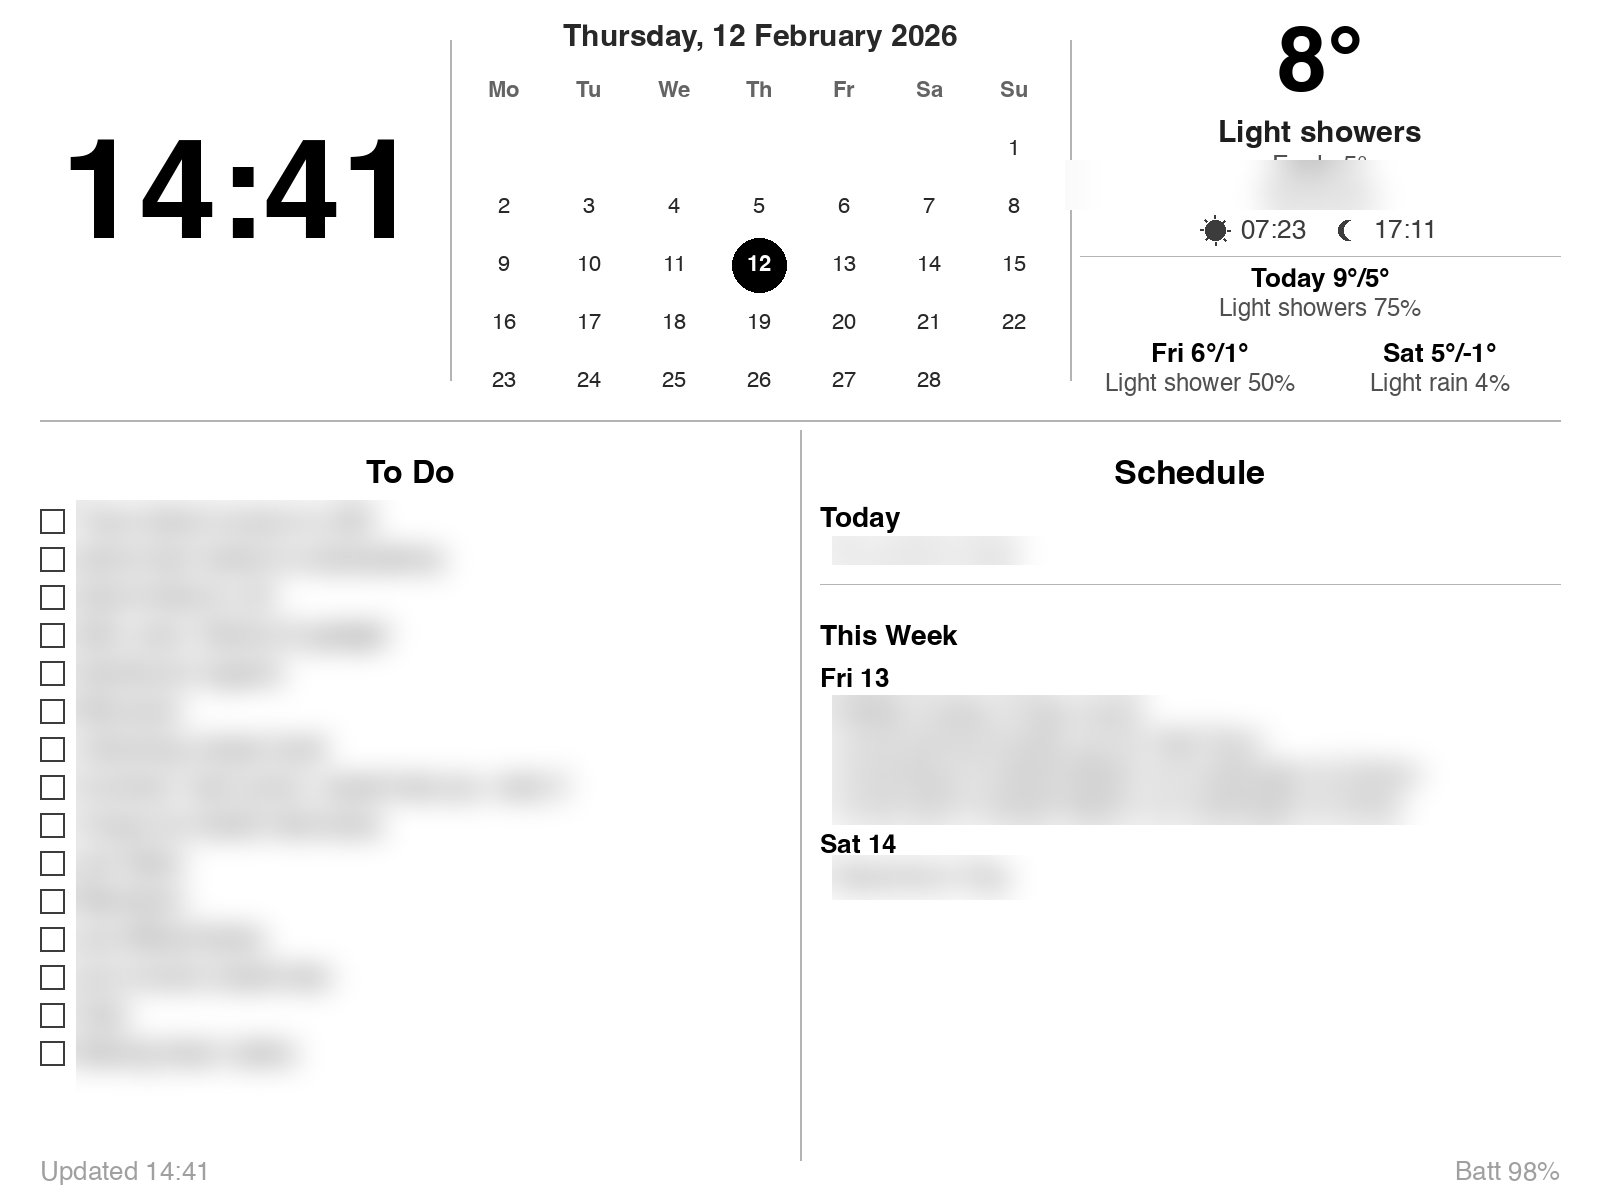
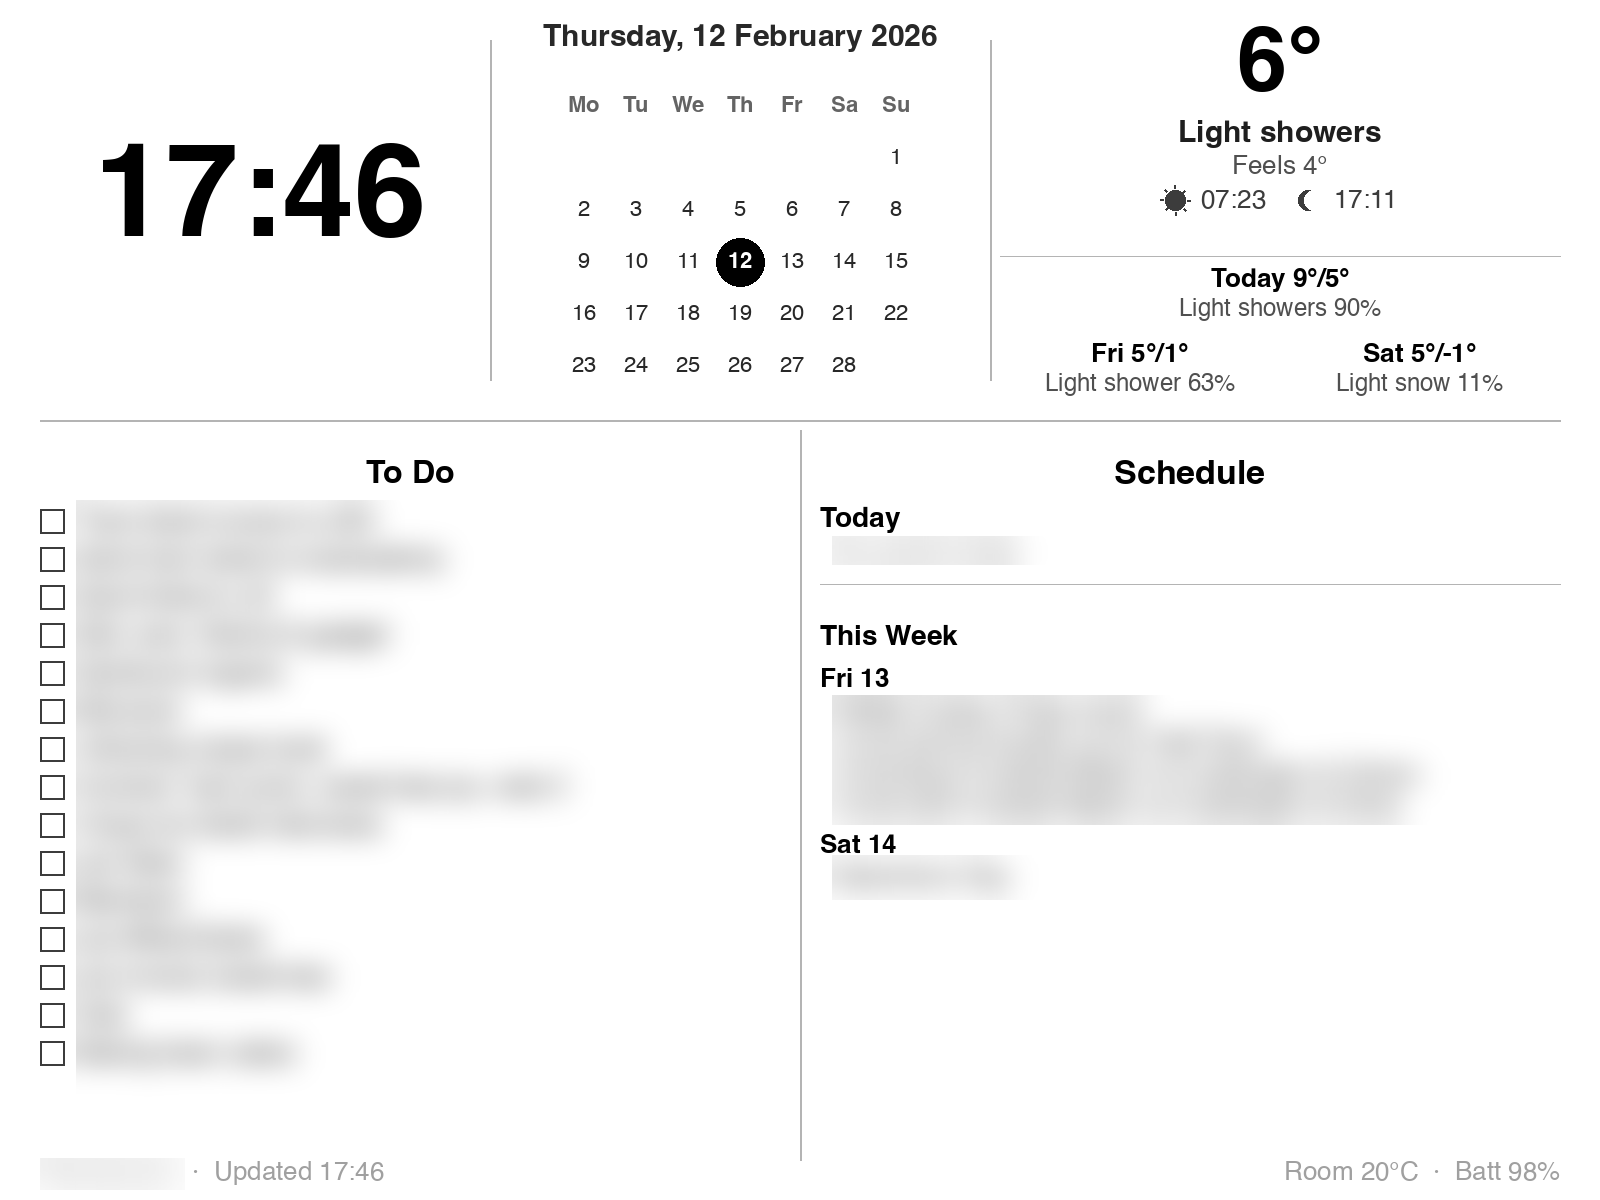
Update README preview with new layout and blur regions

diff --git a/blur_preview.py b/blur_preview.py
@@ -1,0 +1,35 @@
+#!/usr/bin/env python3
+"""Generate a blurred preview image for the README — hides personal data.
+
+Only blurs actual personal content (task names, event details, location).
+Keeps all headings (To Do, Schedule, Today, This Week) and day labels
+(Fri 13, Sat 14, etc.) visible.
+"""
+from PIL import Image, ImageFilter
+
+img = Image.open("joan_preview.png")
+R = 14  # blur radius
+
+# Blur regions: only personal content, not structural elements
+# Right column: B_R=820, indented events at B_R+12=832
+# Left column: tasks start at B_L+36=76
+blur_regions = [
+    # To Do: task names only (after checkbox+gap, below heading)
+    (76, 500, 760, 1150),
+    # "No events today" or today's event text
+    (832, 536, 1555, 565),
+    # Event text lines under Fri 13 (indented at 832)
+    (832, 695, 1555, 825),
+    # Event text under Sat 14 (indented at 832)
+    (832, 855, 1555, 900),
+    # Footer: location name (bottom-left, before "Updated")
+    (40, 1158, 185, 1190),
+]
+
+for box in blur_regions:
+    region = img.crop(box)
+    blurred = region.filter(ImageFilter.GaussianBlur(radius=R))
+    img.paste(blurred, box)
+
+img.save("docs/preview.png")
+print("Saved docs/preview.png with blurred personal data")
